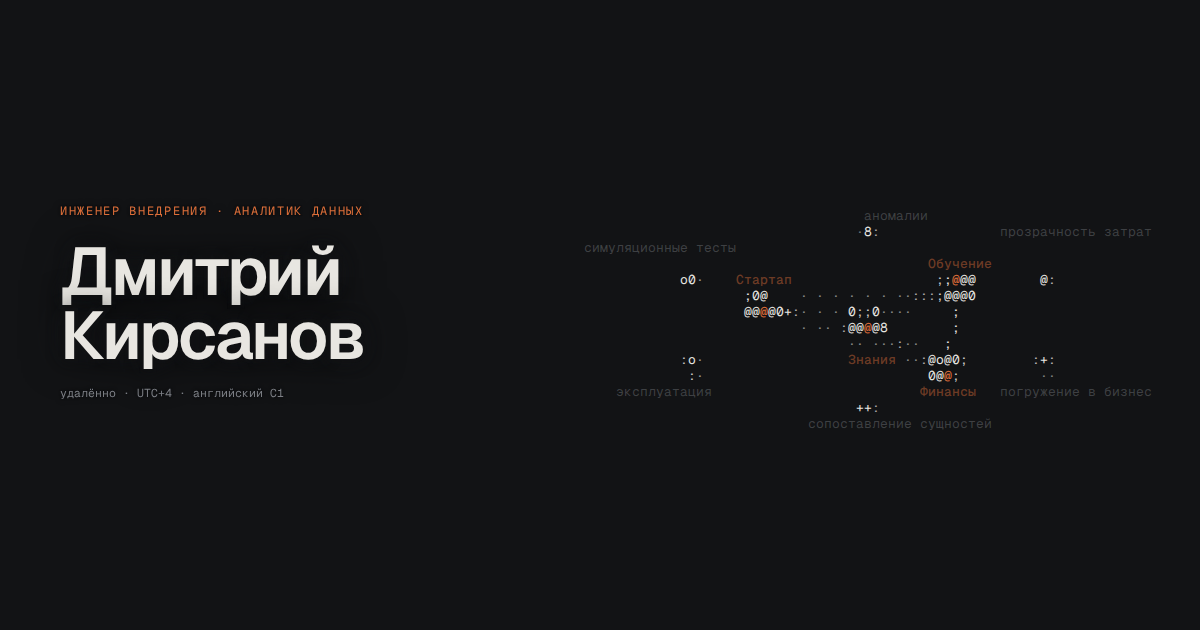
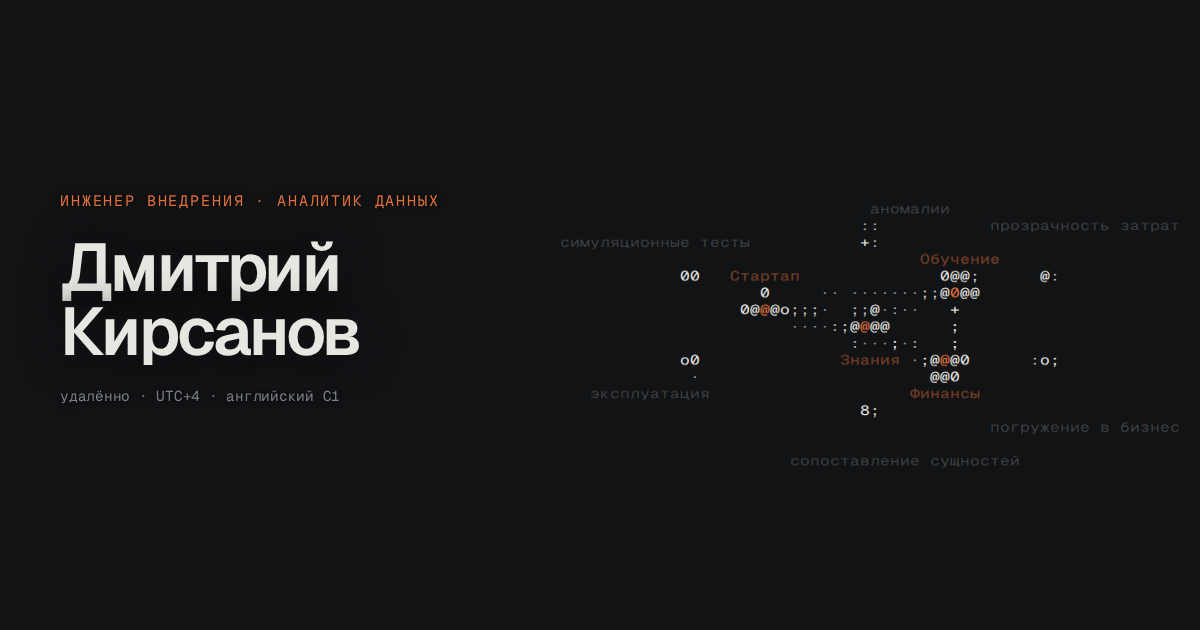
Link preview: hero snapshot at 960x504 scaled 1.25 so the small text and the figure read larger

diff --git a/tools/og.py b/tools/og.py
@@ -21,9 +21,10 @@ threading.Thread(target=srv.serve_forever, daemon=True).start()
 with sync_playwright() as p:
     b = p.chromium.launch()
     for path, out in OUT.items():
-        pg = b.new_page(viewport={'width': 1200, 'height': 630}, reduced_motion='reduce')
+        # кадр 960×504 в масштабе 1,25 = 1200×630: мелкое (роль, статус, фигура) крупнее, пустого поля меньше (27.10)
+        pg = b.new_page(viewport={'width': 960, 'height': 504}, device_scale_factor=1.25, reduced_motion='reduce')
         pg.goto(f'http://127.0.0.1:{srv.server_port}{path}', wait_until='networkidle')
-        pg.add_style_tag(content='nav{display:none !important}')
+        pg.add_style_tag(content='nav{display:none !important} .hero{min-height:0 !important}')
         pg.wait_for_selector('#hero-t.on')
         pg.wait_for_timeout(4500)                      # field.js: неподвижный кадр после T_STILL = 3,2 с
         pg.screenshot(path=str(out))
